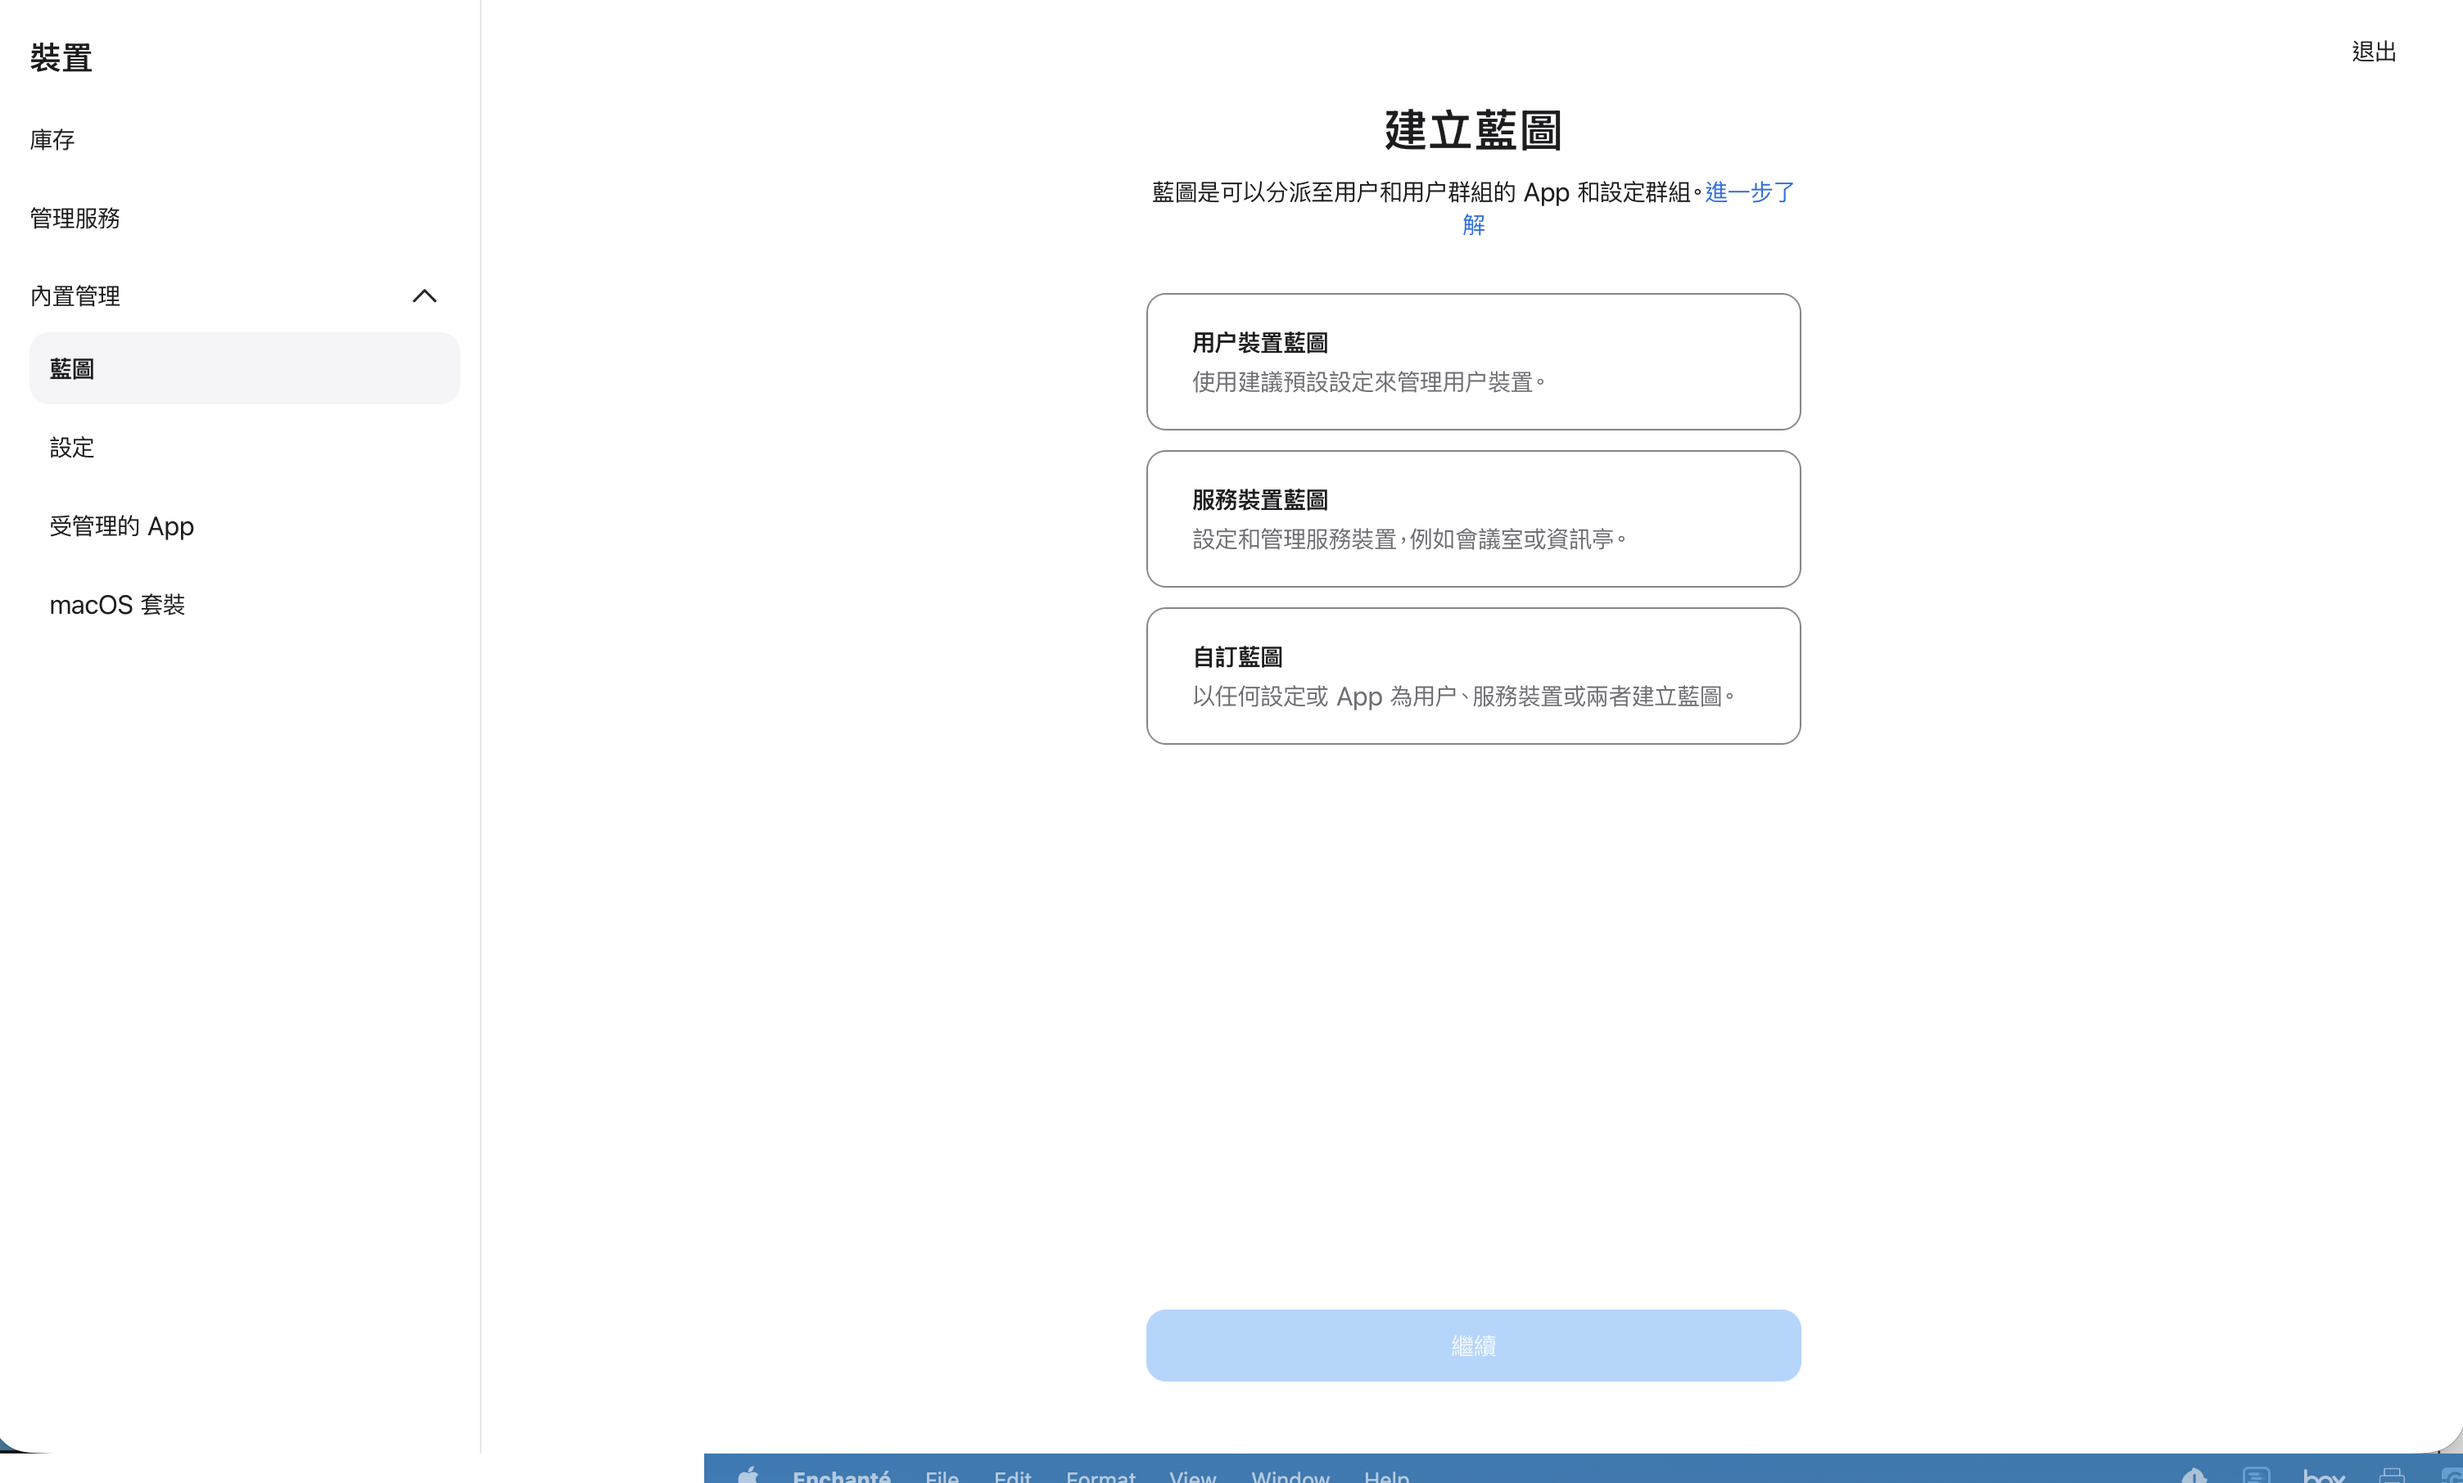
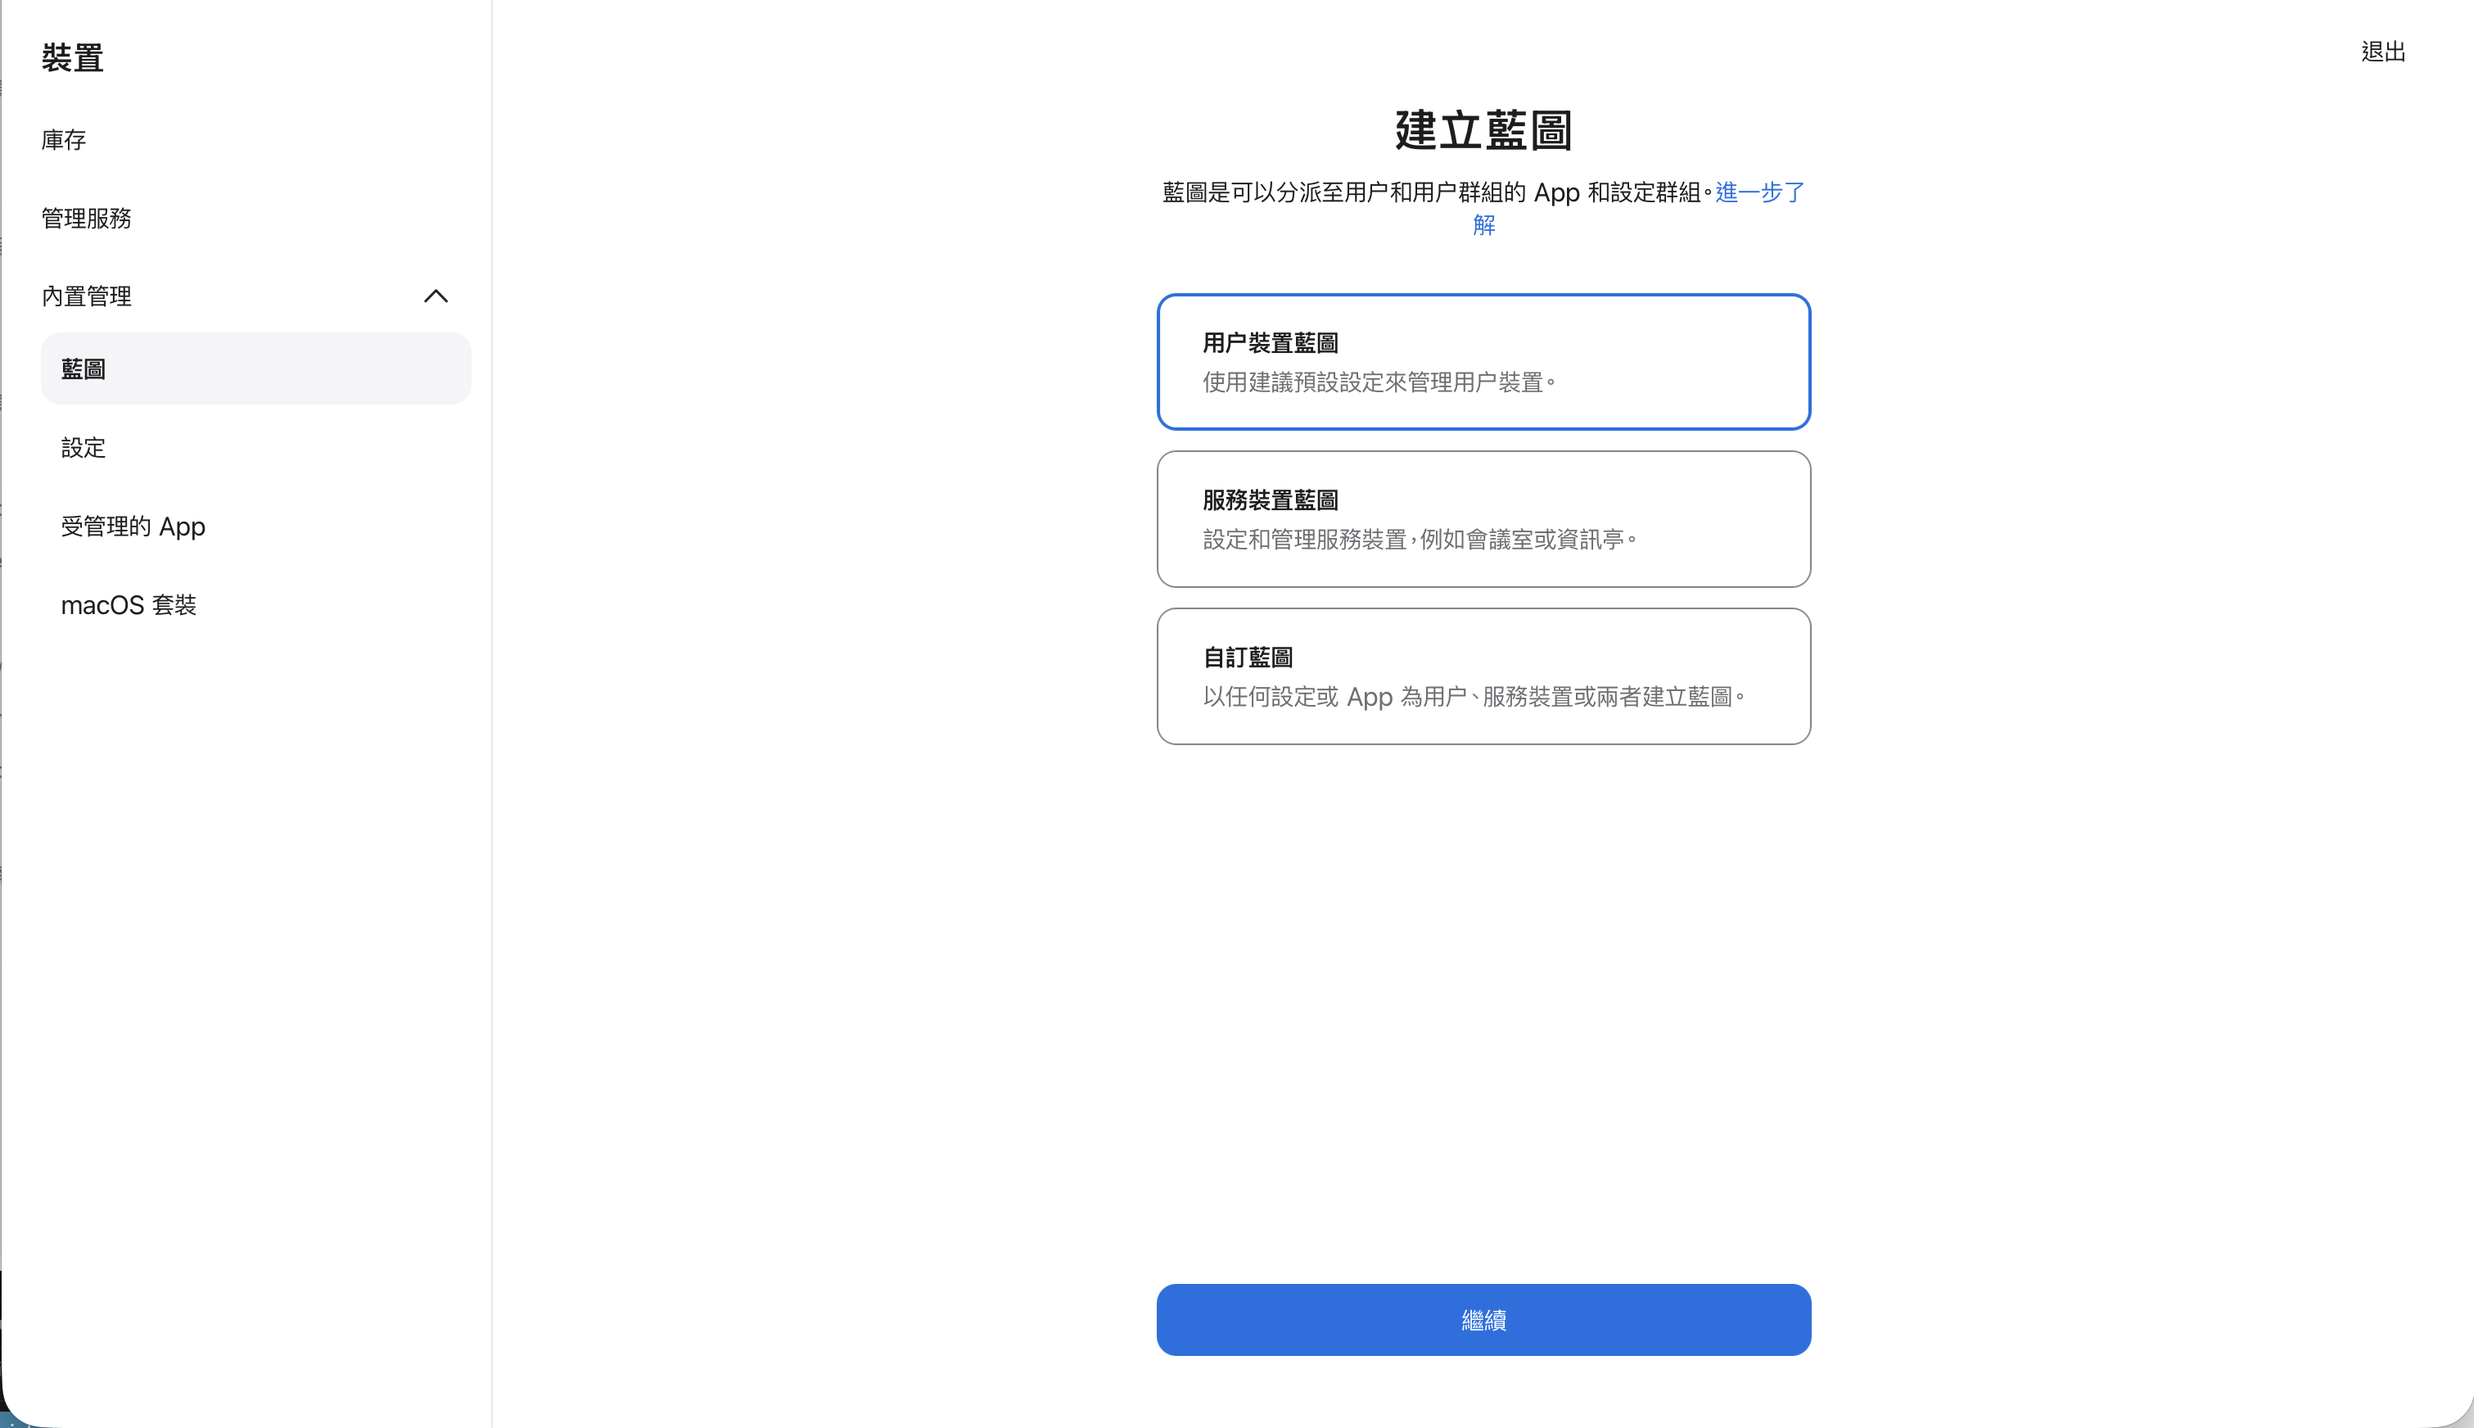
Update Lab 2 Step 2 navigation terminology and replace Step 3 screenshots with perfect highlight crop

diff --git a/docs/guide/lab2.md b/docs/guide/lab2.md
@@ -36,8 +36,8 @@
 
 ### 步驟 2：指派裝置至內建裝置管理服務
 1. 在清單中勾選你的 Mac 裝置。
-2. 點選上方操作列的 **「編輯 MDM 伺服器」** 或 **「指派」**。
-3. 選擇 **「內建裝置管理服務」**（或講師指定的測試 MDM 伺服器）。
+2. 點選上方操作列的 **「裝置」**。
+3. 選擇 **「庫存」**。
 4. 點選繼續並確認指派成功。
 
 ---
